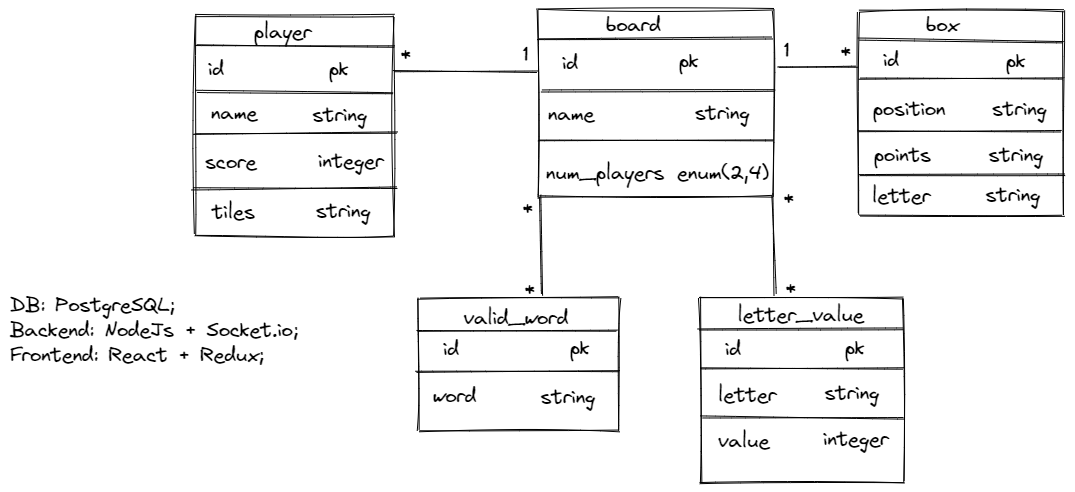
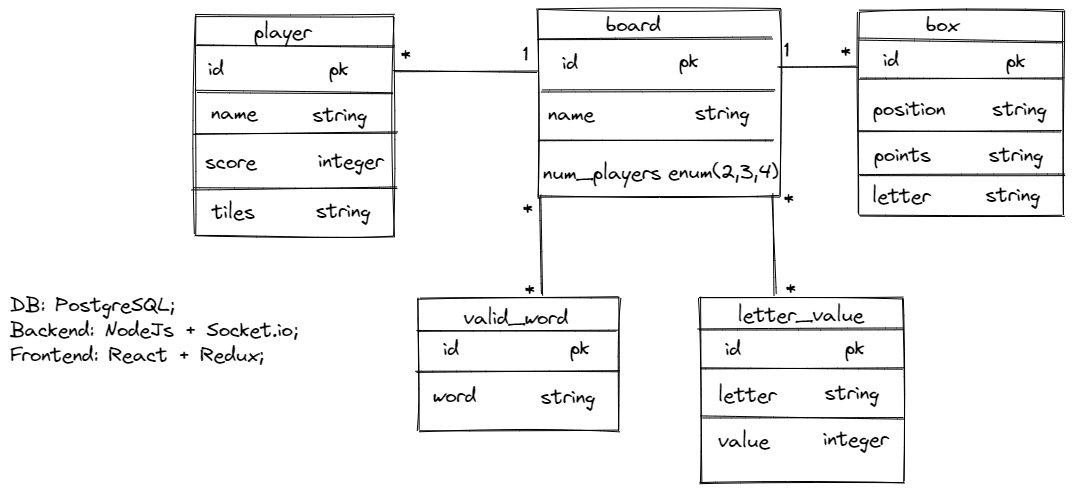
num_players

Changed region(s): [[0.4912, 0.0, 0.7367, 0.4268]]

diff --git a/mini website/server/db/models/board.js b/mini website/server/db/models/board.js
@@ -9,7 +9,7 @@ const Board = db.define("board", {
   },
   num_players: {
     type: Sequelize.ENUM({
-        values: ["2","4"]
+        values: ["2","3","4"]
     }),
     allowNull: false,
   },
